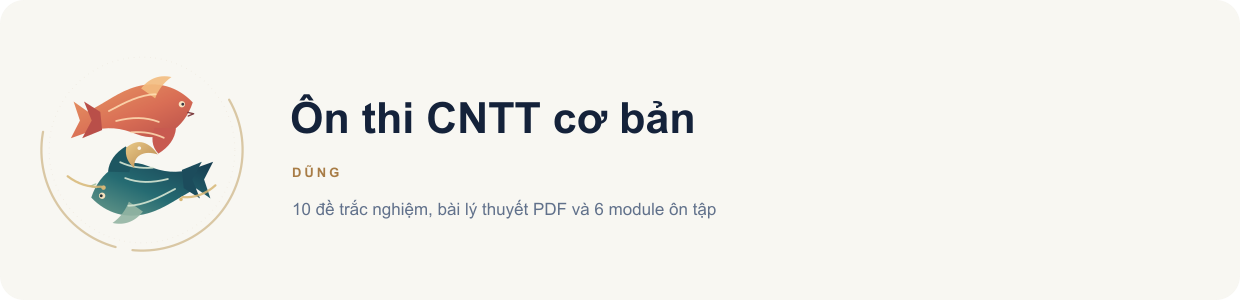
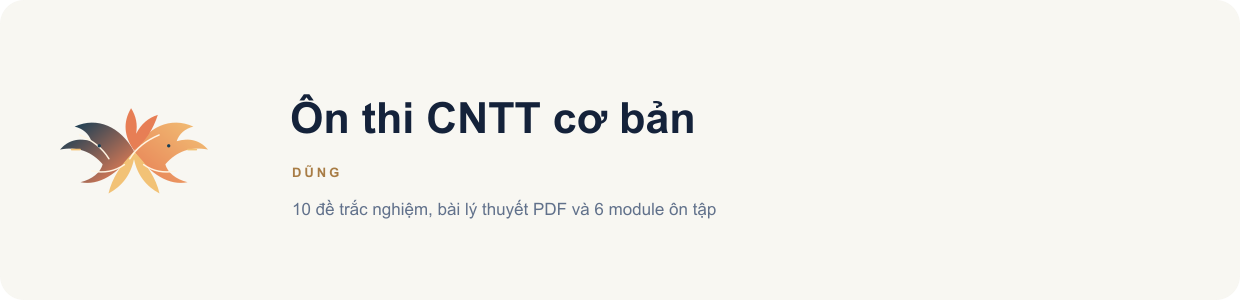
Use selected koi artwork for brand

diff --git a/index.html b/index.html
@@ -8,7 +8,7 @@
 <link rel="icon" type="image/svg+xml" href="assets/dung-koi-mark.svg">
 <style>
 :root{--ink:#14223a;--muted:#61718b;--line:#dce5f0;--paper:#fff;--bg:#f4f7fb;--blue:#2459d3;--blue-dark:#1747b5;--blue-soft:#edf3ff;--green:#11805b;--green-soft:#eaf8f2;--red:#bb343d;--red-soft:#fff0f0;--gold:#986400;--gold-soft:#fff7df;--shadow:0 14px 40px rgba(24,45,82,.08);--radius:18px}
-*{box-sizing:border-box}body{margin:0;background:var(--bg);color:var(--ink);font-family:system-ui,-apple-system,"Segoe UI",Roboto,Arial,sans-serif;line-height:1.5}button,input{font:inherit}button{cursor:pointer}button:disabled{cursor:not-allowed;opacity:.48}.shell{max-width:1100px;margin:0 auto;padding:24px 20px 64px}.topbar{display:flex;align-items:center;justify-content:space-between;gap:18px;margin-bottom:26px}.brand{display:flex;align-items:center;gap:13px}.brand-mark{width:56px;height:56px;display:block;flex:0 0 56px;filter:drop-shadow(0 5px 8px #173c5030)}.brand .brand-owner{margin:0 0 2px;color:#aa7a45;font-size:10px;line-height:1.1;letter-spacing:.2em;font-weight:850}.brand h1{font-size:19px;line-height:1.2;margin:0}.brand p{margin:4px 0 0;color:var(--muted);font-size:13px}.top-actions{display:flex;gap:8px;flex-wrap:wrap}.btn{border:0;border-radius:11px;padding:10px 15px;background:var(--blue);color:white;font-weight:700;transition:.15s}.btn:hover{background:var(--blue-dark);transform:translateY(-1px)}.btn.secondary{background:#fff;color:var(--ink);border:1px solid var(--line)}.btn.secondary:hover{background:#f7f9fc}.btn.ghost{background:transparent;color:var(--muted);border:1px solid transparent}.btn.ghost:hover{background:#eaf0f8;color:var(--ink)}.btn.danger{background:#fff;color:var(--red);border:1px solid #efc5c8}.btn.small{padding:8px 11px;font-size:13px}.btn.block{width:100%}.panel{background:var(--paper);border:1px solid var(--line);border-radius:var(--radius);box-shadow:var(--shadow)}.hero{padding:30px 32px;background:linear-gradient(115deg,#183b84,#2a65d7);color:#fff;border:0;position:relative;overflow:hidden}.hero:after{content:"";position:absolute;width:260px;height:260px;border-radius:50%;right:-60px;top:-115px;background:#ffffff12;box-shadow:0 0 0 36px #ffffff08,0 0 0 75px #ffffff06}.hero h2{font-size:clamp(25px,4vw,36px);line-height:1.15;margin:0 0 10px;position:relative;z-index:1}.hero p{margin:0;color:#e0e9ff;max-width:660px;position:relative;z-index:1}.hero-pills{display:flex;gap:8px;flex-wrap:wrap;margin-top:20px;position:relative;z-index:1}.pill{display:inline-flex;align-items:center;gap:6px;padding:6px 10px;border-radius:99px;background:#ffffff20;color:#fff;font-size:12px;font-weight:700}.notice{margin:16px 0 0;padding:12px 15px;border-radius:12px;background:#fff;border:1px solid var(--line);color:var(--muted);font-size:13px}.notice strong{color:var(--ink)}.notice.warning{background:var(--gold-soft);border-color:#f0d896;color:#725215}.notice.error{background:var(--red-soft);border-color:#f1c9cc;color:#8d252d}.tabs{display:flex;gap:8px;border-bottom:1px solid var(--line);margin:28px 0 19px}.tab{border:0;background:transparent;color:var(--muted);padding:11px 15px;font-weight:750;border-bottom:3px solid transparent;margin-bottom:-1px}.tab.active{color:var(--blue);border-bottom-color:var(--blue)}.section-head{display:flex;align-items:end;justify-content:space-between;gap:12px;margin:0 0 14px}.section-head h2{font-size:21px;margin:0}.section-head p{margin:4px 0 0;color:var(--muted);font-size:13px}.grid{display:grid;grid-template-columns:repeat(2,minmax(0,1fr));gap:14px}.exam-card{position:relative;padding:19px 20px;display:flex;flex-direction:column;min-height:186px}.exam-card.extra{border-color:#c7d6f6;background:linear-gradient(145deg,#fff,#f5f8ff)}.exam-tag{font-size:11px;letter-spacing:.09em;text-transform:uppercase;font-weight:850;color:var(--blue);margin-bottom:6px}.exam-card h3{font-size:18px;line-height:1.28;margin:0 0 6px}.exam-meta{color:var(--muted);font-size:13px}.exam-stats{display:flex;gap:10px;flex-wrap:wrap;margin:14px 0;color:var(--muted);font-size:12px}.exam-stats span{padding:5px 8px;border-radius:8px;background:#f2f5f9}.exam-stats .mistake-count{color:var(--red);background:var(--red-soft)}.exam-actions{display:flex;gap:8px;margin-top:auto}.exam-actions .btn{flex:1}.progress{height:7px;background:#edf1f6;border-radius:99px;overflow:hidden;margin-top:7px}.progress span{display:block;height:100%;background:var(--blue);border-radius:99px}.bank-card{padding:18px 20px}.bank-head{display:flex;align-items:flex-start;justify-content:space-between;gap:15px}.bank-head h3{font-size:17px;margin:0}.bank-head p{margin:5px 0 0;color:var(--muted);font-size:13px}.count-badge{padding:6px 10px;border-radius:99px;background:var(--red-soft);color:var(--red);font-size:12px;font-weight:800;white-space:nowrap}.bank-list{margin:14px 0 0;padding:0;list-style:none;border-top:1px solid var(--line)}.bank-list li{padding:11px 0;border-bottom:1px solid #edf1f6;font-size:13px}.bank-list b{color:var(--muted);margin-right:6px}.bank-list .preview{display:block;color:var(--ink);margin-top:3px}.bank-actions{display:flex;gap:9px;margin-top:14px}.bank-actions .btn{flex:1}.empty{padding:27px;text-align:center;color:var(--muted)}.recent{padding:15px 18px;display:flex;align-items:center;justify-content:space-between;gap:14px;margin-top:15px}.recent small{color:var(--muted);display:block}.recent strong{display:block}.hidden{display:none!important}.quiz-header{position:sticky;top:0;z-index:10;background:#f4f7fbf0;backdrop-filter:blur(12px);padding:10px 0 13px;border-bottom:1px solid #e2e9f2;margin-bottom:15px}.quiz-head-row{display:flex;align-items:center;justify-content:space-between;gap:12px}.quiz-name{min-width:0}.quiz-name .btn{margin-bottom:3px}.quiz-name h2{font-size:19px;margin:2px 0 0}.timer{font-variant-numeric:tabular-nums;font-size:19px;font-weight:850;padding:9px 13px;border-radius:12px;background:var(--blue-soft);color:var(--blue);white-space:nowrap}.timer.low{background:var(--red-soft);color:var(--red);animation:pulse 1s infinite alternate}@keyframes pulse{to{opacity:.62}}.quiz-status{display:flex;justify-content:space-between;color:var(--muted);font-size:12px;margin-top:10px}.quiz-progress{height:6px;border-radius:99px;background:#e2e9f2;overflow:hidden;margin-top:6px}.quiz-progress span{height:100%;display:block;background:var(--blue);transition:width .2s}.jump-nav{display:flex;gap:6px;flex-wrap:wrap;margin:15px 0}.jump-nav button{width:34px;height:33px;border:1px solid var(--line);border-radius:9px;background:#fff;color:var(--muted);font-size:12px;font-weight:750}.jump-nav button.answered{background:var(--blue-soft);border-color:#b6caf8;color:var(--blue)}.jump-nav button.current{outline:2px solid var(--blue);outline-offset:1px}.question-card{padding:22px 24px;margin:12px 0;scroll-margin-top:150px}.q-title{display:flex;align-items:flex-start;gap:13px}.q-number{display:grid;place-items:center;flex:0 0 38px;height:38px;border-radius:12px;background:var(--blue-soft);color:var(--blue);font-weight:850}.q-prompt{margin:3px 0 17px;font-size:17px;font-weight:730;line-height:1.48;white-space:pre-wrap}.choices{display:grid;gap:9px;margin-left:51px}.choice{display:flex;align-items:flex-start;gap:11px;padding:12px 14px;border:1px solid var(--line);border-radius:12px;background:#fff;cursor:pointer;transition:.12s}.choice:hover{border-color:#a8bff5;background:#fbfcff}.choice.selected{border-color:#7297f1;background:#f1f5ff;box-shadow:0 0 0 2px #2459d318}.choice input{position:absolute;opacity:0;pointer-events:none}.radio{flex:0 0 18px;width:18px;height:18px;border:2px solid #aab6c6;border-radius:50%;margin-top:2px;display:grid;place-items:center}.choice.selected .radio{border-color:var(--blue)}.choice.selected .radio:after{content:"";width:8px;height:8px;border-radius:50%;background:var(--blue)}.choice-text{font-size:14px;line-height:1.48;white-space:pre-wrap}.quiz-footer{position:sticky;bottom:0;z-index:8;margin-top:18px;padding:13px 16px;border:1px solid var(--line);border-radius:15px;background:#ffffffed;backdrop-filter:blur(10px);display:flex;align-items:center;justify-content:space-between;gap:12px;box-shadow:0 -8px 28px #14223a0a}.quiz-footer span{color:var(--muted);font-size:13px}.result-hero{padding:26px;text-align:center}.score-ring{width:118px;height:118px;border:8px solid #dfe9ff;border-top-color:var(--blue);border-right-color:var(--blue);border-radius:50%;display:flex;flex-direction:column;align-items:center;justify-content:center;margin:0 auto 14px;font-variant-numeric:tabular-nums}.score-ring strong{font-size:27px;line-height:1.1}.score-ring span{color:var(--muted);font-size:12px}.result-hero h2{margin:5px 0;font-size:24px}.result-hero p{color:var(--muted);margin:5px 0}.result-actions{display:flex;justify-content:center;gap:9px;flex-wrap:wrap;margin-top:18px}.review-results{margin-top:20px}.review-results h3{margin:0 0 10px}.wrong-result{padding:17px 19px;margin:10px 0;border-left:4px solid var(--red)}.wrong-result.correct-result{border-left-color:var(--green)}.wrong-result h4{margin:0 0 10px;font-size:15px}.answer-line{font-size:13px;margin:5px 0}.answer-line .label{display:inline-block;color:var(--muted);min-width:125px}.answer-line.correct .value{color:var(--green);font-weight:750}.answer-line.incorrect .value{color:var(--red)}.source-note{text-align:center;color:#8190a5;font-size:12px;margin-top:25px}.storage-status{font-size:11px;color:var(--muted)}.file-input{display:none}.mobile-only{display:none}
+*{box-sizing:border-box}body{margin:0;background:var(--bg);color:var(--ink);font-family:system-ui,-apple-system,"Segoe UI",Roboto,Arial,sans-serif;line-height:1.5}button,input{font:inherit}button{cursor:pointer}button:disabled{cursor:not-allowed;opacity:.48}.shell{max-width:1100px;margin:0 auto;padding:24px 20px 64px}.topbar{display:flex;align-items:center;justify-content:space-between;gap:18px;margin-bottom:26px}.brand{display:flex;align-items:center;gap:13px}.brand-mark{width:72px;height:48px;display:block;flex:0 0 72px;object-fit:contain;filter:drop-shadow(0 4px 7px #173c5028)}.brand .brand-owner{margin:0 0 2px;color:#aa7a45;font-size:10px;line-height:1.1;letter-spacing:.2em;font-weight:850}.brand h1{font-size:19px;line-height:1.2;margin:0}.brand p{margin:4px 0 0;color:var(--muted);font-size:13px}.top-actions{display:flex;gap:8px;flex-wrap:wrap}.btn{border:0;border-radius:11px;padding:10px 15px;background:var(--blue);color:white;font-weight:700;transition:.15s}.btn:hover{background:var(--blue-dark);transform:translateY(-1px)}.btn.secondary{background:#fff;color:var(--ink);border:1px solid var(--line)}.btn.secondary:hover{background:#f7f9fc}.btn.ghost{background:transparent;color:var(--muted);border:1px solid transparent}.btn.ghost:hover{background:#eaf0f8;color:var(--ink)}.btn.danger{background:#fff;color:var(--red);border:1px solid #efc5c8}.btn.small{padding:8px 11px;font-size:13px}.btn.block{width:100%}.panel{background:var(--paper);border:1px solid var(--line);border-radius:var(--radius);box-shadow:var(--shadow)}.hero{padding:30px 32px;background:linear-gradient(115deg,#183b84,#2a65d7);color:#fff;border:0;position:relative;overflow:hidden}.hero:after{content:"";position:absolute;width:260px;height:260px;border-radius:50%;right:-60px;top:-115px;background:#ffffff12;box-shadow:0 0 0 36px #ffffff08,0 0 0 75px #ffffff06}.hero h2{font-size:clamp(25px,4vw,36px);line-height:1.15;margin:0 0 10px;position:relative;z-index:1}.hero p{margin:0;color:#e0e9ff;max-width:660px;position:relative;z-index:1}.hero-pills{display:flex;gap:8px;flex-wrap:wrap;margin-top:20px;position:relative;z-index:1}.pill{display:inline-flex;align-items:center;gap:6px;padding:6px 10px;border-radius:99px;background:#ffffff20;color:#fff;font-size:12px;font-weight:700}.notice{margin:16px 0 0;padding:12px 15px;border-radius:12px;background:#fff;border:1px solid var(--line);color:var(--muted);font-size:13px}.notice strong{color:var(--ink)}.notice.warning{background:var(--gold-soft);border-color:#f0d896;color:#725215}.notice.error{background:var(--red-soft);border-color:#f1c9cc;color:#8d252d}.tabs{display:flex;gap:8px;border-bottom:1px solid var(--line);margin:28px 0 19px}.tab{border:0;background:transparent;color:var(--muted);padding:11px 15px;font-weight:750;border-bottom:3px solid transparent;margin-bottom:-1px}.tab.active{color:var(--blue);border-bottom-color:var(--blue)}.section-head{display:flex;align-items:end;justify-content:space-between;gap:12px;margin:0 0 14px}.section-head h2{font-size:21px;margin:0}.section-head p{margin:4px 0 0;color:var(--muted);font-size:13px}.grid{display:grid;grid-template-columns:repeat(2,minmax(0,1fr));gap:14px}.exam-card{position:relative;padding:19px 20px;display:flex;flex-direction:column;min-height:186px}.exam-card.extra{border-color:#c7d6f6;background:linear-gradient(145deg,#fff,#f5f8ff)}.exam-tag{font-size:11px;letter-spacing:.09em;text-transform:uppercase;font-weight:850;color:var(--blue);margin-bottom:6px}.exam-card h3{font-size:18px;line-height:1.28;margin:0 0 6px}.exam-meta{color:var(--muted);font-size:13px}.exam-stats{display:flex;gap:10px;flex-wrap:wrap;margin:14px 0;color:var(--muted);font-size:12px}.exam-stats span{padding:5px 8px;border-radius:8px;background:#f2f5f9}.exam-stats .mistake-count{color:var(--red);background:var(--red-soft)}.exam-actions{display:flex;gap:8px;margin-top:auto}.exam-actions .btn{flex:1}.progress{height:7px;background:#edf1f6;border-radius:99px;overflow:hidden;margin-top:7px}.progress span{display:block;height:100%;background:var(--blue);border-radius:99px}.bank-card{padding:18px 20px}.bank-head{display:flex;align-items:flex-start;justify-content:space-between;gap:15px}.bank-head h3{font-size:17px;margin:0}.bank-head p{margin:5px 0 0;color:var(--muted);font-size:13px}.count-badge{padding:6px 10px;border-radius:99px;background:var(--red-soft);color:var(--red);font-size:12px;font-weight:800;white-space:nowrap}.bank-list{margin:14px 0 0;padding:0;list-style:none;border-top:1px solid var(--line)}.bank-list li{padding:11px 0;border-bottom:1px solid #edf1f6;font-size:13px}.bank-list b{color:var(--muted);margin-right:6px}.bank-list .preview{display:block;color:var(--ink);margin-top:3px}.bank-actions{display:flex;gap:9px;margin-top:14px}.bank-actions .btn{flex:1}.empty{padding:27px;text-align:center;color:var(--muted)}.recent{padding:15px 18px;display:flex;align-items:center;justify-content:space-between;gap:14px;margin-top:15px}.recent small{color:var(--muted);display:block}.recent strong{display:block}.hidden{display:none!important}.quiz-header{position:sticky;top:0;z-index:10;background:#f4f7fbf0;backdrop-filter:blur(12px);padding:10px 0 13px;border-bottom:1px solid #e2e9f2;margin-bottom:15px}.quiz-head-row{display:flex;align-items:center;justify-content:space-between;gap:12px}.quiz-name{min-width:0}.quiz-name .btn{margin-bottom:3px}.quiz-name h2{font-size:19px;margin:2px 0 0}.timer{font-variant-numeric:tabular-nums;font-size:19px;font-weight:850;padding:9px 13px;border-radius:12px;background:var(--blue-soft);color:var(--blue);white-space:nowrap}.timer.low{background:var(--red-soft);color:var(--red);animation:pulse 1s infinite alternate}@keyframes pulse{to{opacity:.62}}.quiz-status{display:flex;justify-content:space-between;color:var(--muted);font-size:12px;margin-top:10px}.quiz-progress{height:6px;border-radius:99px;background:#e2e9f2;overflow:hidden;margin-top:6px}.quiz-progress span{height:100%;display:block;background:var(--blue);transition:width .2s}.jump-nav{display:flex;gap:6px;flex-wrap:wrap;margin:15px 0}.jump-nav button{width:34px;height:33px;border:1px solid var(--line);border-radius:9px;background:#fff;color:var(--muted);font-size:12px;font-weight:750}.jump-nav button.answered{background:var(--blue-soft);border-color:#b6caf8;color:var(--blue)}.jump-nav button.current{outline:2px solid var(--blue);outline-offset:1px}.question-card{padding:22px 24px;margin:12px 0;scroll-margin-top:150px}.q-title{display:flex;align-items:flex-start;gap:13px}.q-number{display:grid;place-items:center;flex:0 0 38px;height:38px;border-radius:12px;background:var(--blue-soft);color:var(--blue);font-weight:850}.q-prompt{margin:3px 0 17px;font-size:17px;font-weight:730;line-height:1.48;white-space:pre-wrap}.choices{display:grid;gap:9px;margin-left:51px}.choice{display:flex;align-items:flex-start;gap:11px;padding:12px 14px;border:1px solid var(--line);border-radius:12px;background:#fff;cursor:pointer;transition:.12s}.choice:hover{border-color:#a8bff5;background:#fbfcff}.choice.selected{border-color:#7297f1;background:#f1f5ff;box-shadow:0 0 0 2px #2459d318}.choice input{position:absolute;opacity:0;pointer-events:none}.radio{flex:0 0 18px;width:18px;height:18px;border:2px solid #aab6c6;border-radius:50%;margin-top:2px;display:grid;place-items:center}.choice.selected .radio{border-color:var(--blue)}.choice.selected .radio:after{content:"";width:8px;height:8px;border-radius:50%;background:var(--blue)}.choice-text{font-size:14px;line-height:1.48;white-space:pre-wrap}.quiz-footer{position:sticky;bottom:0;z-index:8;margin-top:18px;padding:13px 16px;border:1px solid var(--line);border-radius:15px;background:#ffffffed;backdrop-filter:blur(10px);display:flex;align-items:center;justify-content:space-between;gap:12px;box-shadow:0 -8px 28px #14223a0a}.quiz-footer span{color:var(--muted);font-size:13px}.result-hero{padding:26px;text-align:center}.score-ring{width:118px;height:118px;border:8px solid #dfe9ff;border-top-color:var(--blue);border-right-color:var(--blue);border-radius:50%;display:flex;flex-direction:column;align-items:center;justify-content:center;margin:0 auto 14px;font-variant-numeric:tabular-nums}.score-ring strong{font-size:27px;line-height:1.1}.score-ring span{color:var(--muted);font-size:12px}.result-hero h2{margin:5px 0;font-size:24px}.result-hero p{color:var(--muted);margin:5px 0}.result-actions{display:flex;justify-content:center;gap:9px;flex-wrap:wrap;margin-top:18px}.review-results{margin-top:20px}.review-results h3{margin:0 0 10px}.wrong-result{padding:17px 19px;margin:10px 0;border-left:4px solid var(--red)}.wrong-result.correct-result{border-left-color:var(--green)}.wrong-result h4{margin:0 0 10px;font-size:15px}.answer-line{font-size:13px;margin:5px 0}.answer-line .label{display:inline-block;color:var(--muted);min-width:125px}.answer-line.correct .value{color:var(--green);font-weight:750}.answer-line.incorrect .value{color:var(--red)}.source-note{text-align:center;color:#8190a5;font-size:12px;margin-top:25px}.storage-status{font-size:11px;color:var(--muted)}.file-input{display:none}.mobile-only{display:none}
 @media(max-width:760px){.shell{padding:15px 12px 45px}.topbar{align-items:flex-start}.top-actions{justify-content:flex-end}.top-actions .btn{padding:8px 9px;font-size:12px}.brand h1{font-size:16px}.brand p{max-width:230px;font-size:11px}.hero{padding:24px 20px}.grid{grid-template-columns:1fr}.exam-card{min-height:0}.quiz-header{margin-left:-12px;margin-right:-12px;padding:10px 12px}.quiz-head-row{align-items:flex-start}.quiz-name h2{font-size:16px}.timer{font-size:16px;padding:8px 10px}.question-card{padding:17px 15px;scroll-margin-top:135px}.q-prompt{font-size:15px}.choices{margin-left:0}.choice{padding:11px}.quiz-footer{bottom:7px}.quiz-footer .btn{padding:9px 11px}.bank-list li{font-size:12px}.recent{align-items:flex-start;flex-direction:column}.answer-line .label{min-width:unset;display:block;margin-bottom:1px}.storage-status{display:none}}
 @media(max-width:430px){.topbar{flex-direction:column}.top-actions{width:100%;justify-content:flex-start}.hero h2{font-size:26px}.tabs{margin-top:22px}.question-card{padding:15px 12px}.q-title{gap:9px}.q-number{flex-basis:32px;height:32px}.jump-nav button{width:30px;height:30px}.quiz-footer span{font-size:11px}.quiz-footer .btn{font-size:12px}.exam-actions{flex-direction:column}.bank-actions{flex-direction:column}}
 .exam-card.has-stamp h3{padding-right:84px;min-height:42px}.achievement-stamp{position:absolute;z-index:2;top:14px;right:16px;width:76px;height:76px;border:2px solid var(--stamp);border-radius:50%;transform:rotate(11deg);display:flex;flex-direction:column;align-items:center;justify-content:center;color:var(--stamp);background:#fffdf7ef;box-shadow:0 2px 8px #14223a18;font-family:Georgia,serif;text-align:center;line-height:1}.achievement-stamp:before{content:"";position:absolute;inset:4px;border:1px solid var(--stamp);border-radius:50%;opacity:.8}.achievement-stamp .stamp-main{font-size:13px;font-weight:900;letter-spacing:.08em}.achievement-stamp .stamp-score{font:800 11px system-ui;margin-top:4px}.achievement-stamp .stamp-tier{font:750 7px system-ui;letter-spacing:.07em;margin-top:3px}.stamp-tier-1{--stamp:#7b5a38;border-style:dashed}.stamp-tier-2{--stamp:#287b57;box-shadow:0 0 0 3px #fff,0 0 0 4px var(--stamp),0 2px 8px #14223a18}.stamp-tier-3{--stamp:#2459d3;box-shadow:0 0 0 3px #fff,0 0 0 5px var(--stamp),0 2px 8px #14223a18}.stamp-tier-4{--stamp:#ad3038;width:84px;height:84px;border-width:3px;background:#fff9e9;box-shadow:0 0 0 3px #fff,0 0 0 6px #c79a38,0 2px 10px #14223a24}.stamp-tier-4:before{inset:6px;border-width:2px}.stamp-tier-4 .stamp-main{font-size:12px}.stamp-tier-4 .stamp-tier{font-size:8px}
